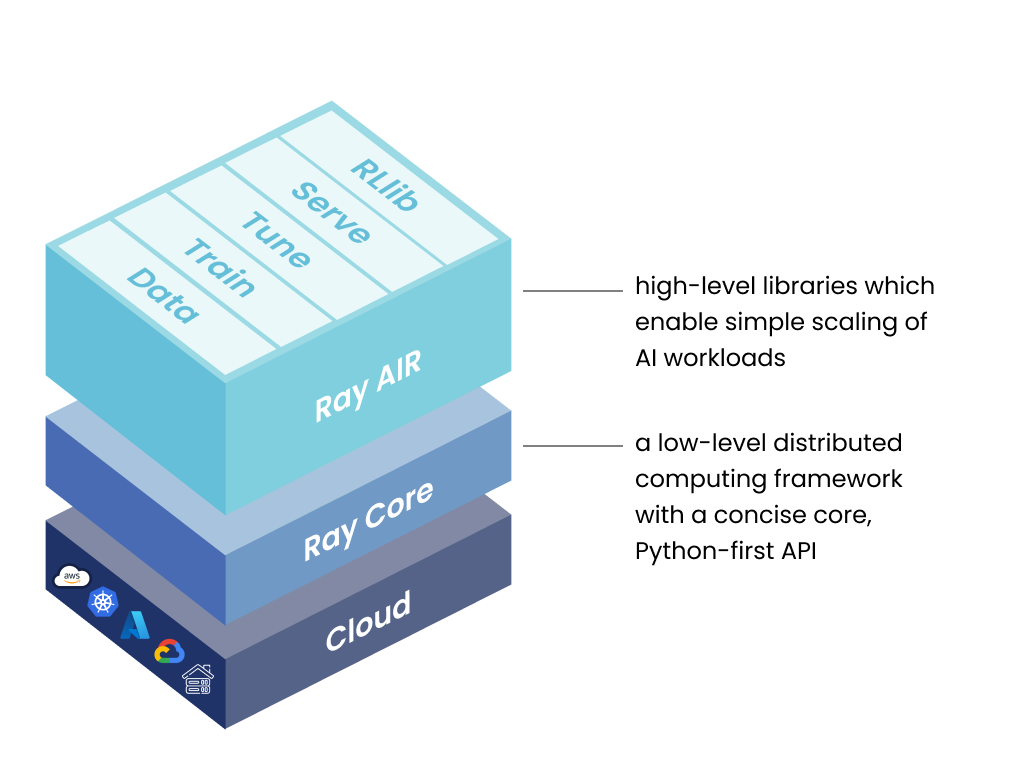
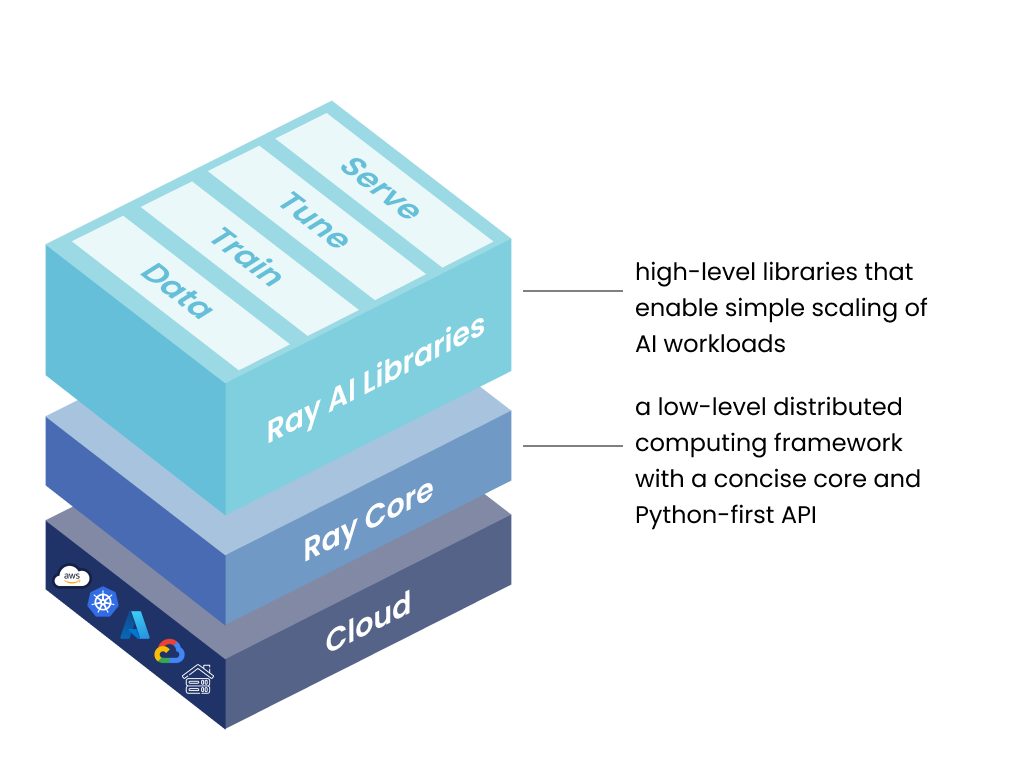
change Ray AIR to Ray AI libraries; remove from top nav

diff --git a/doc/source/_static/js/top-navigation.js b/doc/source/_static/js/top-navigation.js
@@ -89,7 +89,6 @@ librariesMenu.setAttribute("class", "menu")
 librariesMenu.innerHTML = "<a href='#'>Libraries" + downCaret + "</a>"
 librariesList = document.createElement("ul")
 librariesList.innerHTML += "<li><a href='" + getNavURL("ray-core/walkthrough.html") + "'><span class='primary'>Ray Core</span><span class='secondary'>Scale general Python applications</span></a></li>"
-librariesList.innerHTML += "<li><a href='" + getNavURL("ray-air/getting-started.html") + "'><span class='primary'>Ray AIR</span><span class='secondary'>Scale AI applications</span></a></li>"
 librariesList.innerHTML += "<li><a href='" + getNavURL("data/data.html") + "'><span class='primary'>Ray Data</span><span class='secondary'>Scale data ingest and preprocessing</span></a></li>"
 librariesList.innerHTML += "<li><a href='" + getNavURL("train/train.html") + "'><span class='primary'>Ray Train</span><span class='secondary'>Scale machine learning training</span></a></li>"
 librariesList.innerHTML += "<li><a href='" + getNavURL("tune/index.html") + "'><span class='primary'>Ray Tune</span><span class='secondary'>Scale hyperparameter tuning</span></a></li>"

diff --git a/doc/source/ray-overview/index.md b/doc/source/ray-overview/index.md
@@ -44,9 +44,9 @@ These are some common ML workloads that individuals, organizations, and companie
 
 Ray's unified compute framework consists of three layers:
 
-1. **Ray AI Runtime (AIR) Libraries**--An open-source, Python, domain-specific set of libraries that equip ML engineers, data scientists, and researchers with a scalable and unified toolkit for ML applications.
+1. **Ray AI Libraries**--An open-source, Python, domain-specific set of libraries that equip ML engineers, data scientists, and researchers with a scalable and unified toolkit for ML applications.
 2. **Ray Core**--An open-source, Python, general purpose, distributed computing library that enables ML engineers and Python developers to scale Python applications and accelerate machine learning workloads.
-3. **Ray cluster**--A set of worker nodes connected to a common Ray head node. Ray clusters can be fixed-size, or they can autoscale up and down according to the resources requested by applications running on the cluster.
+3. **Ray Clusters**--A set of worker nodes connected to a common Ray head node. Ray clusters can be fixed-size, or they can autoscale up and down according to the resources requested by applications running on the cluster.
 
 ```{eval-rst}
 .. grid:: 1 2 3 3
@@ -117,7 +117,7 @@ Each of [Ray's](../ray-air/getting-started) five native libraries distributes a 
 
 Ray's libraries are for both data scientists and ML engineers alike. For data scientists, these libraries can be used to scale individual workloads, and also end-to-end ML applications. For ML Engineers, these libraries provides scalable platform abstractions that can be used to easily onboard and integrate tooling from the broader ML ecosystem.
 
-For custom applications, the [Ray Core](../ray-core/walkthrough) library enables Python developers to easily build scalable, distributed systems that can run on a laptop, cluster, cloud, or Kubernetes. It's the foundation that Ray AI Runtime libraries and third-party integrations (Ray ecosystem) are built on.
+For custom applications, the [Ray Core](../ray-core/walkthrough) library enables Python developers to easily build scalable, distributed systems that can run on a laptop, cluster, cloud, or Kubernetes. It's the foundation that Ray AI libraries and third-party integrations (Ray ecosystem) are built on.
 
 Ray runs on any machine, cluster, cloud provider, and Kubernetes, and features a growing
 [ecosystem of community integrations](ray-libraries).

diff --git a/doc/source/index.md b/doc/source/index.md
@@ -333,7 +333,7 @@ ppo_algo.evaluate()
   <div class="info-box-2">
         <div class="image-header" style="padding:0px;">
             <img src="_static/img/AIR.png" width="32px" height="32px" />
-            <h3 style="font-size:20px; font-weight:600;">Ray AI Runtime Libraries</h3>
+            <h3 style="font-size:20px; font-weight:600;">Ray Libraries</h3>
         </div>
         <p>Scale the entire ML pipeline from data ingest to model serving with high-level Python APIs that integrate with popular ecosystem frameworks.</p>      
         <a class="bold-link" style="letter-spacing:0.05em; text-transform:uppercase; font-weight:500;" href="./ray-overview/getting-started.html#ray-ai-runtime-libraries-quickstart" target="_blank">Learn more about Ray Libraries></a>
